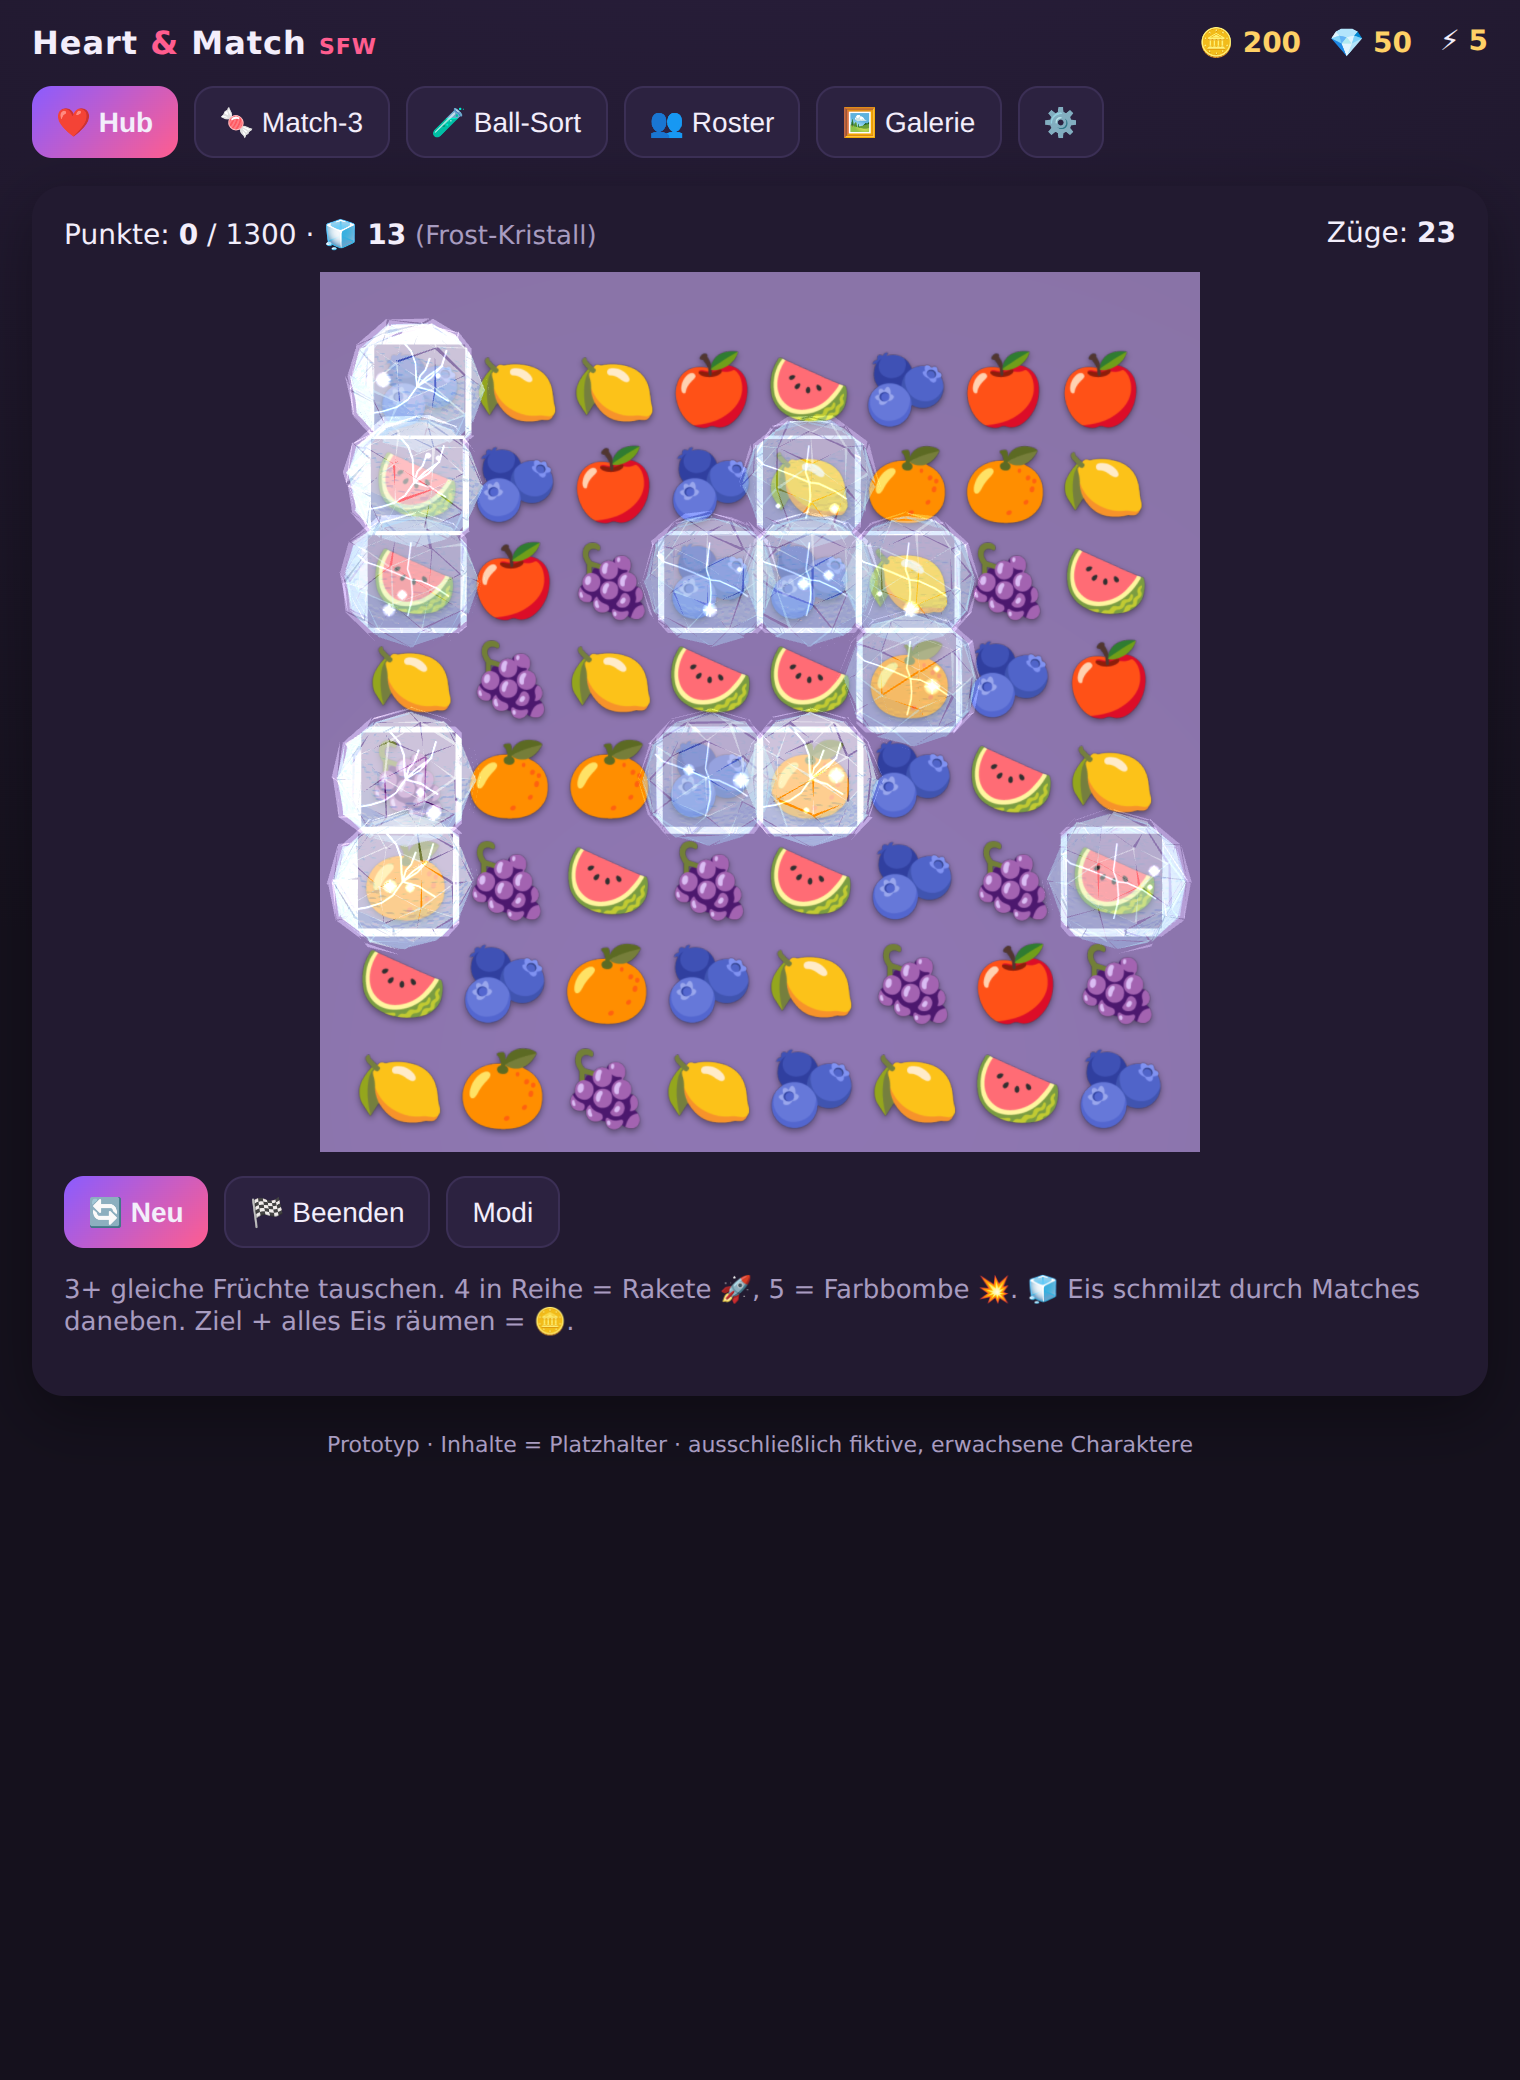
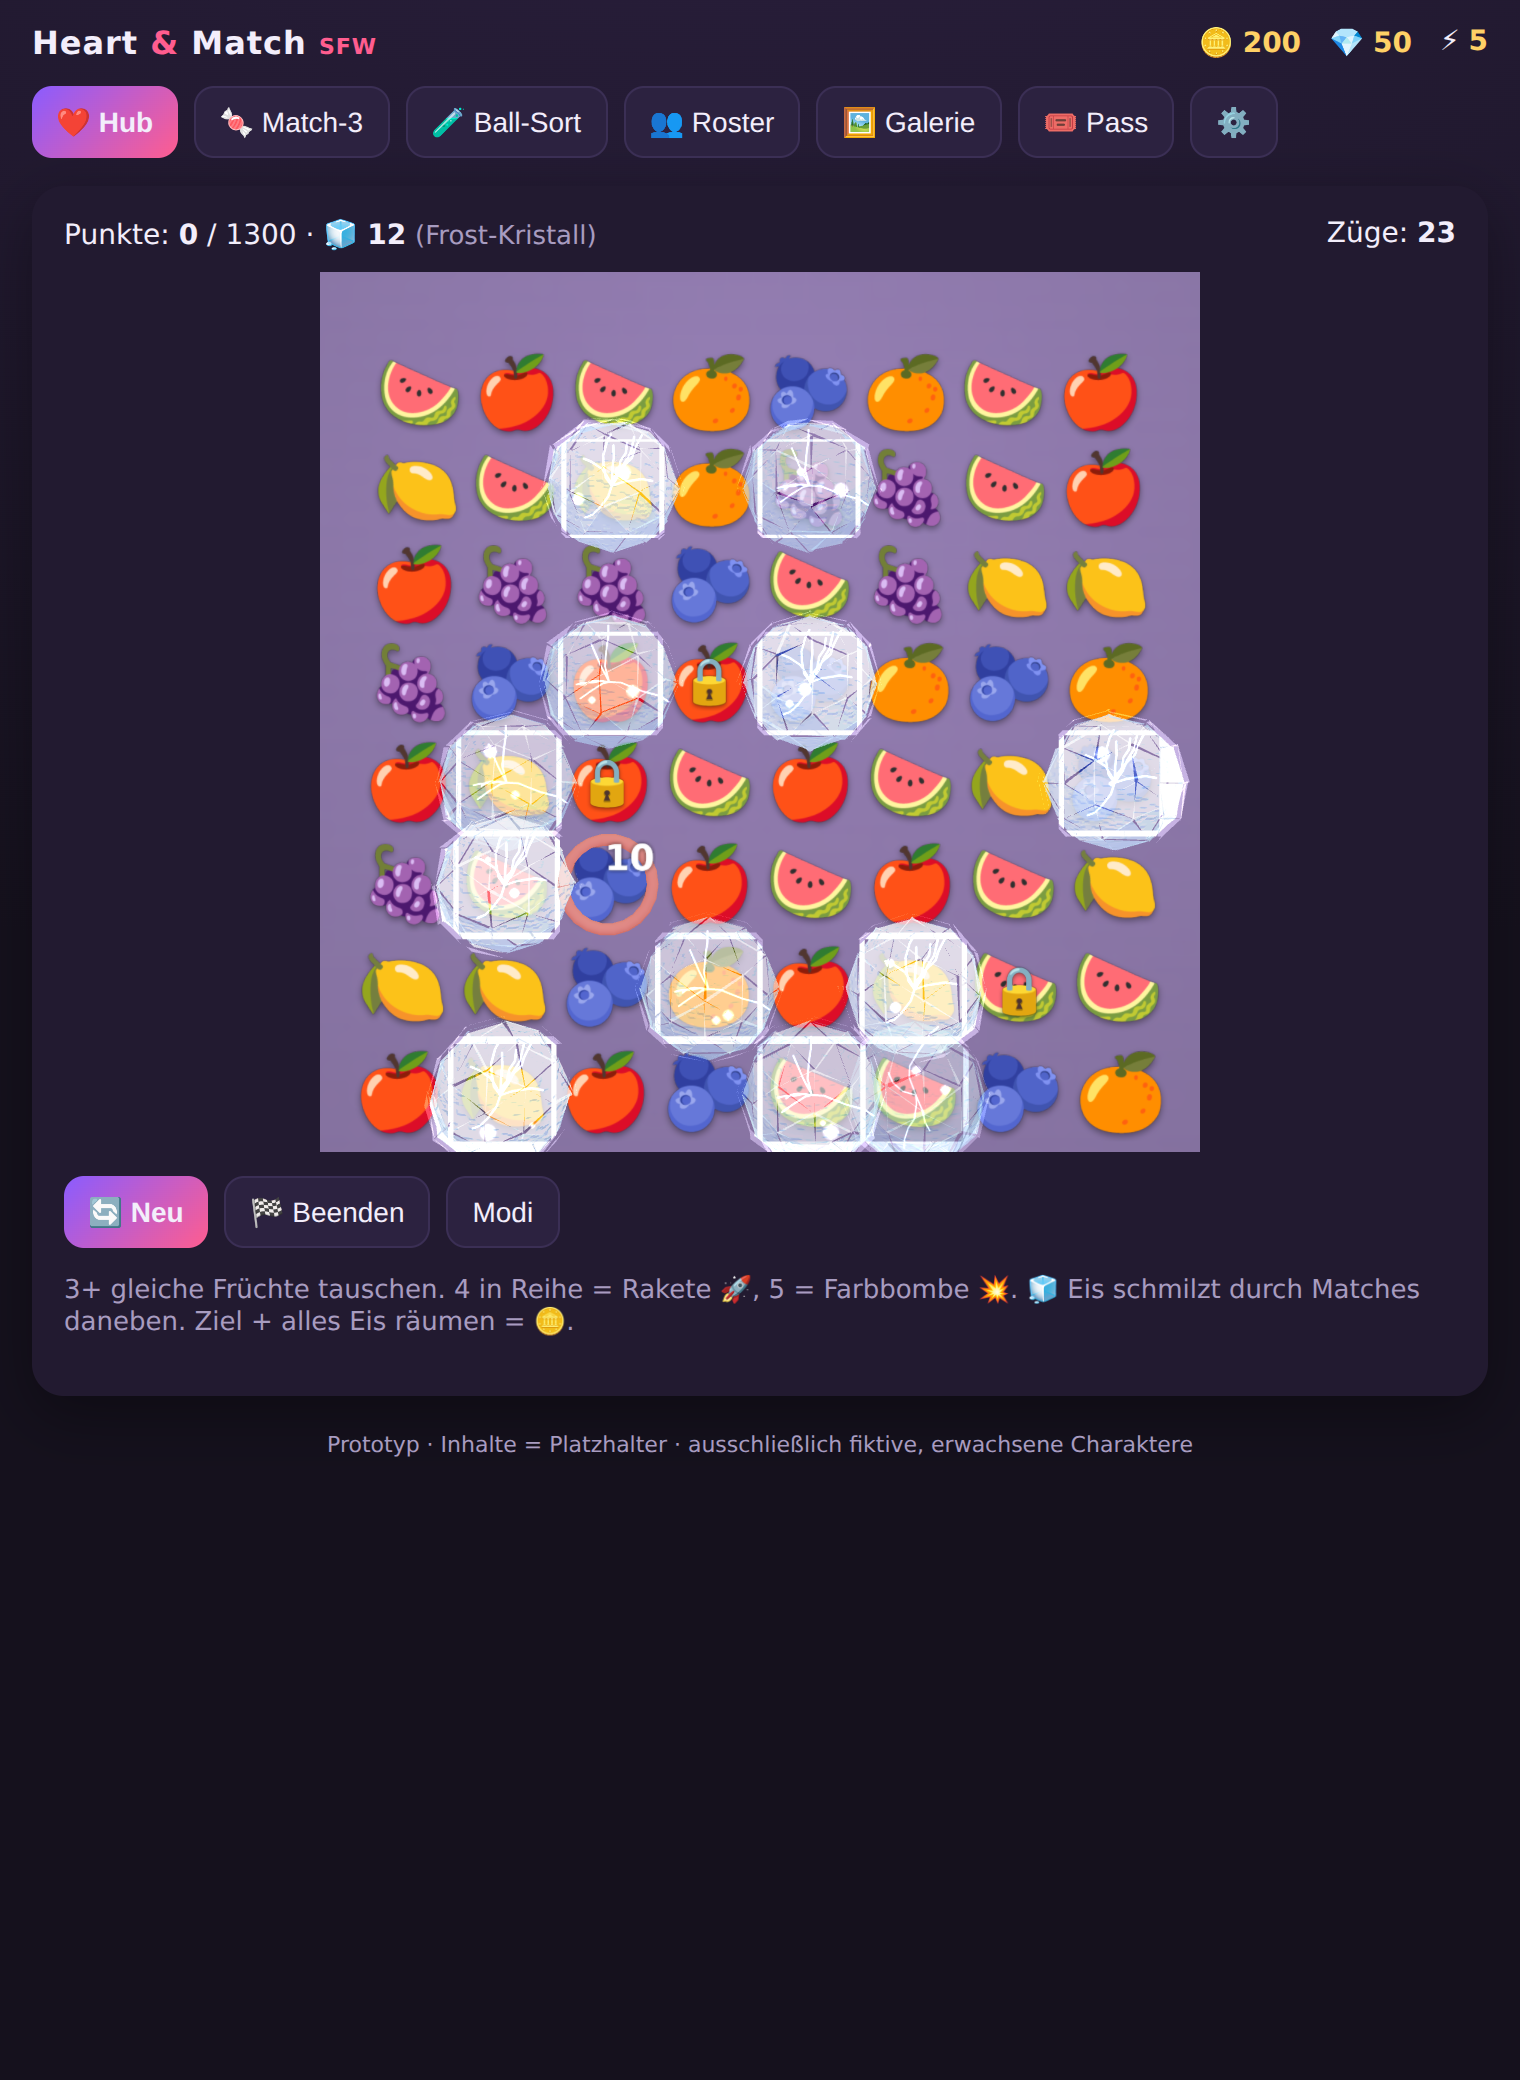
Juice pass: floating score popups, special flashes, glow bg, confetti win, animated counters
- 3D schwebende Punkte-/Combo-Popups beim Aufloesen (Farbe/Groesse nach Combo)
- Spezialstein-Zuenden: additiver Lichtblitz + staerkerer Screenshake
- Radialer Glow-Gradient als Spielfeld-Hintergrund (statt flacher Plane)
- Konfetti-Siegesfeier + GEWONNEN-Banner (celebrate) bei Minispiel-Sieg
- Animierte Waehrungs-Zaehler (bump) + sanft schwebendes Charakter-Portrait

Changed region(s): [[0.2164, 0.1562, 0.8039, 0.5625], [0.6803, 0.0312, 0.773, 0.0625], [0.8039, 0.0312, 0.8349, 0.0625]]

diff --git a/web-prototype/games3d.js b/web-prototype/games3d.js
@@ -126,9 +126,9 @@ function startMatch3() {
   M3.cam = new T.PerspectiveCamera(46, 1, 0.1, 100);
   M3.cam.position.set(0, -0.8, 12.2); M3.cam.lookAt(0, 0.25, 0);
   addLights(M3.scene);
-  const back = new T.Mesh(new T.PlaneGeometry(40, 40),
-    new T.MeshStandardMaterial({ color: 0x241a36, roughness: 1 }));
-  back.position.z = -1.4; back.receiveShadow = true; M3.scene.add(back);
+  const back = new T.Mesh(new T.PlaneGeometry(46, 46),
+    new T.MeshBasicMaterial({ map: gradientTex() }));
+  back.position.z = -1.4; M3.scene.add(back);
   M3.raycaster = new T.Raycaster();
   M3.renderer = makeRenderer(mount, size, size);
   M3.cam.aspect = 1; M3.cam.updateProjectionMatrix();
@@ -319,10 +319,14 @@ function tickM3() {
   for (let i = M3.particles.length - 1; i >= 0; i--) {
     const p = M3.particles[i]; p.life -= 0.016;
     if (p.life <= 0) { M3.scene.remove(p.mesh); M3.particles.splice(i, 1); continue; }
-    p.vy -= 0.018; p.mesh.position.x += p.vx; p.mesh.position.y += p.vy; p.mesh.position.z += p.vz;
-    if (p.grow) {
+    if (!p.text) p.vy -= 0.018;                       // Schwerkraft (außer Text-Popups)
+    p.mesh.position.x += p.vx; p.mesh.position.y += p.vy; p.mesh.position.z += p.vz;
+    if (p.text) {
+      const k = p.life / p.maxlife; if (p.mesh.material) p.mesh.material.opacity = Math.min(1, k * 1.4);
+      const sc = p.base * (1.3 - 0.3 * k); p.mesh.scale.set(sc * 1.8, sc * 0.9, 1);
+    } else if (p.grow) {
       const k = 1 - p.life / p.maxlife; p.mesh.scale.setScalar(p.base * (1 + k * 2.2));
-      if (p.mesh.material) p.mesh.material.opacity = 0.85 * (1 - k);
+      if (p.mesh.material) p.mesh.material.opacity = 0.9 * (1 - k);
     } else if (p.shard) {
       p.mesh.rotation.x += p.spin; p.mesh.rotation.y += p.spin * 0.7;
       if (p.mesh.material) p.mesh.material.opacity = Math.min(1, p.life / 0.3);
@@ -348,6 +352,38 @@ function burst(x, y, colorHex, n) {
     M3.particles.push({ mesh: m, vx: (Math.random() - 0.5) * 0.32, vy: Math.random() * 0.3 + 0.05,
       vz: Math.random() * 0.2, life: 0.5 + Math.random() * 0.3 });
   }
+}
+
+// --- Juice: schwebende Punkte-Popups, Spezial-Lichtblitz, Gradient-Hintergrund ---
+const _txtCache = {}; let _gradTex;
+function textTexture(text, color) {
+  const key = text + "|" + color; if (_txtCache[key]) return _txtCache[key];
+  const w = 256, h = 128, cv = document.createElement("canvas"); cv.width = w; cv.height = h;
+  const ctx = cv.getContext("2d"); ctx.font = "bold 72px system-ui,Arial,sans-serif";
+  ctx.textAlign = "center"; ctx.textBaseline = "middle";
+  ctx.lineWidth = 9; ctx.strokeStyle = "rgba(0,0,0,0.65)"; ctx.strokeText(text, w / 2, h / 2);
+  ctx.fillStyle = color; ctx.fillText(text, w / 2, h / 2);
+  const t = new T.CanvasTexture(cv); _txtCache[key] = t; return t;
+}
+function scorePopup(x, y, text, color, scale) {
+  const m = new T.Sprite(new T.SpriteMaterial({ map: textTexture(text, color), transparent: true, depthWrite: false }));
+  const p = worldPos(x, y); m.position.set(p.x, p.y, 0.6); m.renderOrder = 6;
+  m.scale.set(scale * 1.8, scale * 0.9, 1); M3.scene.add(m);
+  M3.particles.push({ mesh: m, vx: 0, vy: 0.05, vz: 0, life: 0.95, maxlife: 0.95, text: true, base: scale });
+}
+function flashAt(x, y, color) {
+  const s = new T.Sprite(new T.SpriteMaterial({ map: puffTex(), transparent: true, opacity: 0.95,
+    blending: T.AdditiveBlending, depthWrite: false, color: new T.Color(color) }));
+  const p = worldPos(x, y); s.position.set(p.x, p.y, 0.7); s.scale.setScalar(0.6); s.renderOrder = 5; M3.scene.add(s);
+  M3.particles.push({ mesh: s, vx: 0, vy: 0, vz: 0, life: 0.45, maxlife: 0.45, grow: true, base: 1.0 });
+}
+function gradientTex() {
+  if (_gradTex) return _gradTex;
+  const s = 256, cv = document.createElement("canvas"); cv.width = cv.height = s; const ctx = cv.getContext("2d");
+  const g = ctx.createRadialGradient(s/2, s*0.42, 10, s/2, s/2, s*0.72);
+  g.addColorStop(0, "#4a3470"); g.addColorStop(0.55, "#2a1f3d"); g.addColorStop(1, "#140f1f");
+  ctx.fillStyle = g; ctx.fillRect(0, 0, s, s);
+  _gradTex = new T.CanvasTexture(cv); return _gradTex;
 }
 
 function onM3Pointer(e) {
@@ -522,11 +558,15 @@ async function resolveBoard(b) {
       sp.position.set(p.x, p.y, 0); sp.userData.tx = p.x; sp.userData.ty = p.y; M3.scene.add(sp);
       M3.grid[s.p.y][s.p.x] = { c: s.color, s: s.kind, mesh: sp };
     });
-    M3.score += Math.round(n * 12 * (1 + 0.25 * (combo - 1)));
+    const gained = Math.round(n * 12 * (1 + 0.25 * (combo - 1)));
+    M3.score += gained;
+    if (n > 0) scorePopup(b.x, b.y, "+" + gained + (combo > 1 ? " ×" + combo : ""),
+      combo >= 3 ? "#ffd166" : "#ffffff", 0.55 + Math.min(0.55, combo * 0.13));
+    spawns.forEach(s => flashAt(s.p.x, s.p.y, s.kind === "color" ? 0xff5db0 : 0xffe066));
 
     // Juice: "bigger action = bigger feedback" — Screenshake + Hit-Stop bei Spezial/Combo
-    if (spawns.length) { M3.shake = 0.55; beep(180, .18, "sawtooth"); }
-    else if (combo >= 3) { M3.shake = Math.max(M3.shake, 0.28); }
+    if (spawns.length) { M3.shake = 0.6; beep(180, .18, "sawtooth"); }
+    else if (combo >= 3) { M3.shake = Math.max(M3.shake, 0.3); }
     if (combo > 1) beep(700 + combo * 70, .06);
     updateM3Hud();
     await wait(spawns.length ? 320 : 200); // Hit-Stop: kurze Pause beim Spezial-Zünden

diff --git a/web-prototype/game.js b/web-prototype/game.js
@@ -180,8 +180,26 @@ function renderModes() {
   });
 }
 
+const _wPrev = { coins: null, gems: null, energy: null };
 function refreshWallet() {
-  $("coins").textContent = state.coins; $("gems").textContent = state.gems; $("energy").textContent = state.energy;
+  ["coins", "gems", "energy"].forEach(k => {
+    const el = $(k), v = state[k];
+    if (_wPrev[k] !== null && _wPrev[k] !== v) { el.classList.remove("bump"); void el.offsetWidth; el.classList.add("bump"); }
+    el.textContent = v; _wPrev[k] = v;
+  });
+}
+
+// Konfetti + Sieges-Banner
+function celebrate(text) {
+  const colors = ["#ff5d8f", "#8a5cff", "#ffd166", "#4fd1a5", "#4dabf7", "#ff922b"];
+  for (let i = 0; i < 80; i++) {
+    const c = document.createElement("div"); c.className = "confetti";
+    c.style.left = Math.random() * 100 + "vw"; c.style.background = colors[i % colors.length];
+    const dur = 1.8 + Math.random() * 1.5; c.style.animationDelay = (Math.random() * 0.3) + "s";
+    c.style.animation = `confettiFall ${dur}s linear forwards`;
+    document.body.appendChild(c); setTimeout(() => c.remove(), (dur + 0.4) * 1000);
+  }
+  if (text) { const b = document.createElement("div"); b.className = "banner show"; b.textContent = text; document.body.appendChild(b); setTimeout(() => b.remove(), 1700); }
 }
 
 function refreshHub() {
@@ -290,8 +308,8 @@ function minigameFinished(coins) {
   c.mood = clamp(c.mood + 6, 0, 100);
   c.affection = clamp(c.affection + 2, 0, 100);          // Minispiel-Sieg vertieft auch die Beziehung
   checkTierUp(c);
-  beep(990, .2); toast(`🎉 +${coins} 🪙  ·  +20 🎟`); save(); refreshWallet();
-  setTimeout(() => showTab("hub"), 1300);
+  beep(990, .2); celebrate(`🎉 +${coins} 🪙 · +20 🎟`); toast(`🎉 +${coins} 🪙  ·  +20 🎟`); save(); refreshWallet();
+  setTimeout(() => showTab("hub"), 1500);
 }
 
 // ---------- Energie-Regen ----------

diff --git a/web-prototype/index.html b/web-prototype/index.html
@@ -118,6 +118,18 @@
   .overlay .card { max-width: 420px; }
   .overlay h1 { margin: 0 0 6px; } .overlay h1 span { color: var(--accent); }
   .setrow { display: flex; justify-content: space-between; align-items: center; padding: 10px 0; border-bottom: 1px solid #33284a; }
+
+  /* Juice */
+  @keyframes floaty { 0%,100% { transform: translateY(0) rotate(-2deg); } 50% { transform: translateY(-7px) rotate(2deg); } }
+  .portrait { animation: floaty 3.2s ease-in-out infinite; }
+  @keyframes bump { 0% { transform: scale(1); } 30% { transform: scale(1.45); color: #fff; } 100% { transform: scale(1); } }
+  .bump { animation: bump .35s ease; display: inline-block; }
+  .confetti { position: fixed; top: -24px; width: 10px; height: 15px; z-index: 200; pointer-events: none; border-radius: 2px; }
+  @keyframes confettiFall { to { transform: translateY(112vh) rotate(900deg); } }
+  .banner { position: fixed; top: 28%; left: 50%; z-index: 201; font-size: 34px; font-weight: 900; color: #fff;
+    text-shadow: 0 4px 24px rgba(255,93,143,.9), 0 0 8px rgba(138,92,255,.8); pointer-events: none; white-space: nowrap; }
+  @keyframes bannerPop { 0% { opacity: 0; transform: translateX(-50%) scale(.5); } 18% { opacity: 1; transform: translateX(-50%) scale(1.15); } 80% { opacity: 1; transform: translateX(-50%) scale(1); } 100% { opacity: 0; transform: translateX(-50%) scale(1.05); } }
+  .banner.show { animation: bannerPop 1.7s ease forwards; }
 </style>
 </head>
 <body>
